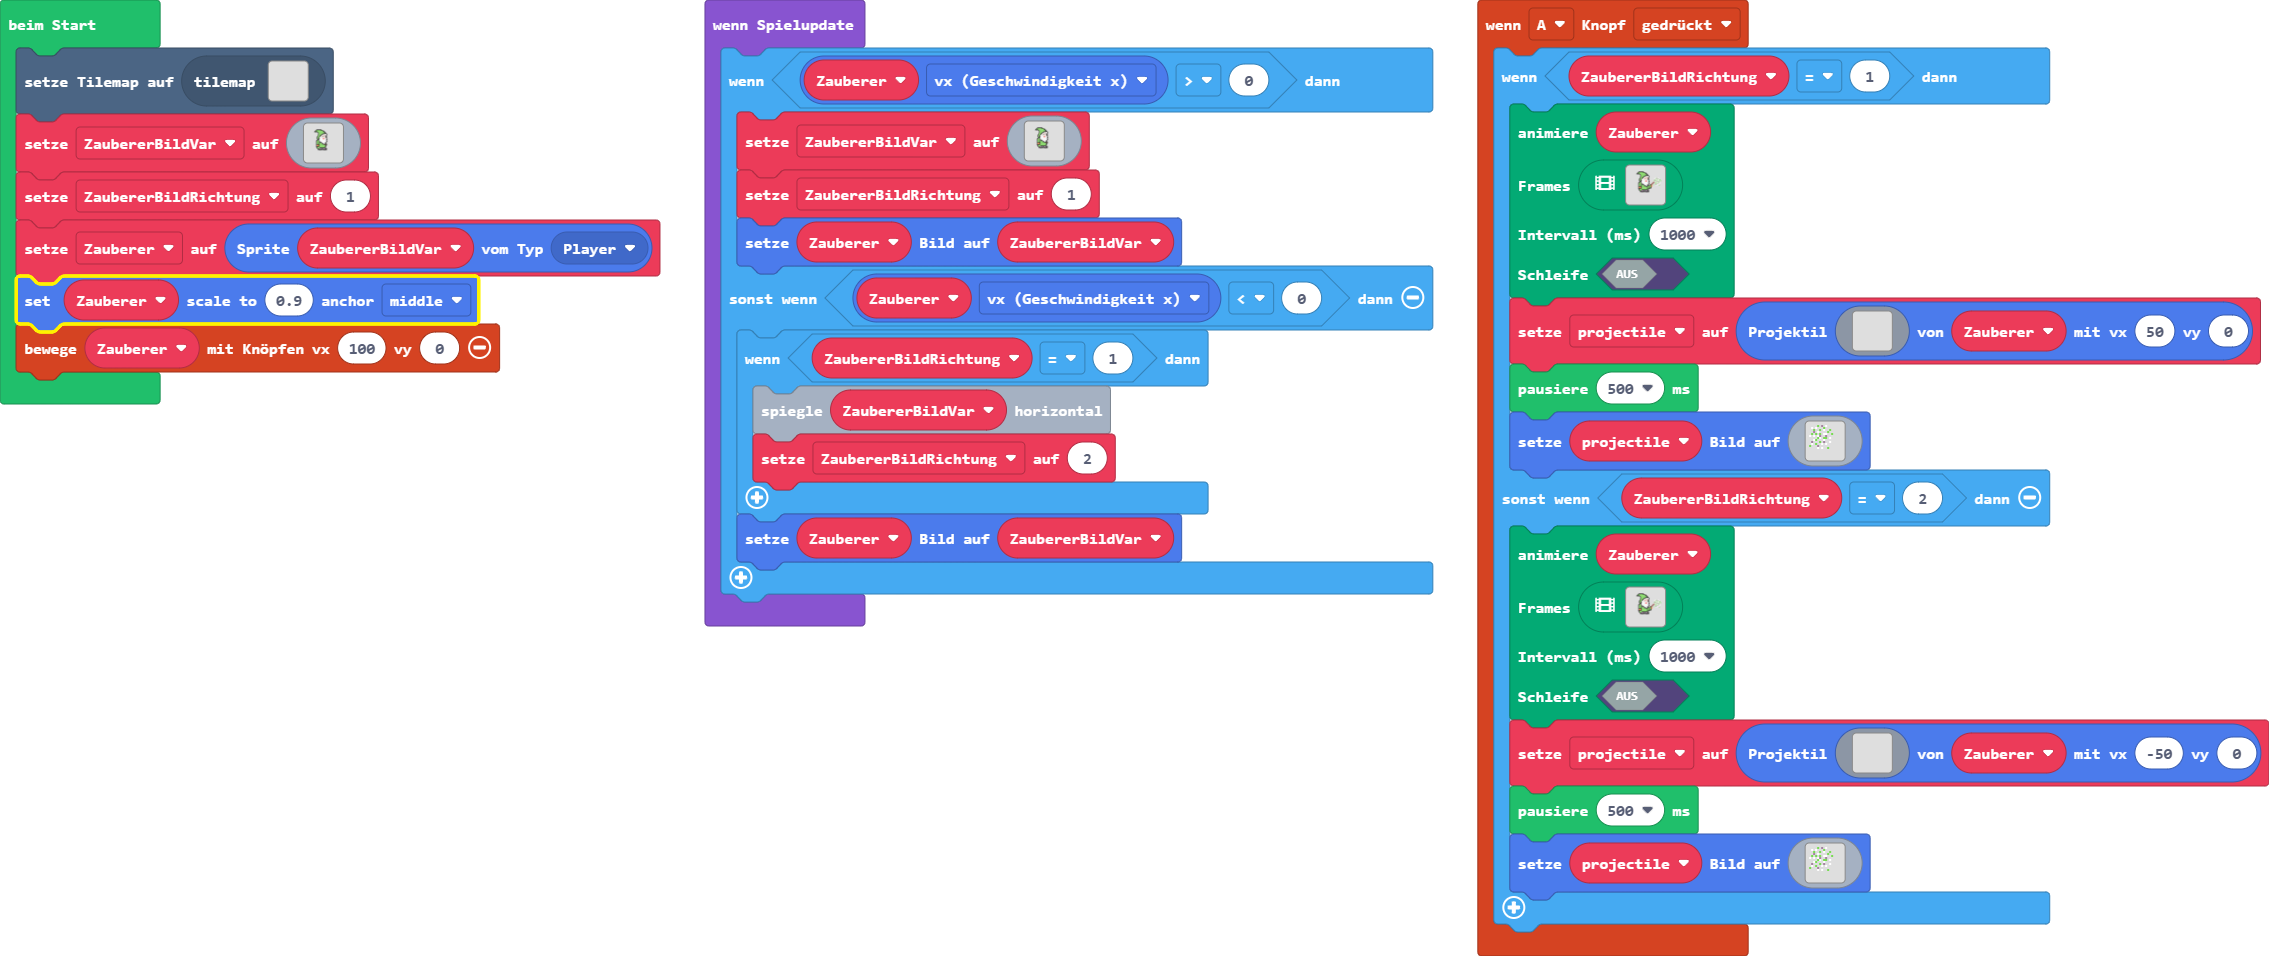
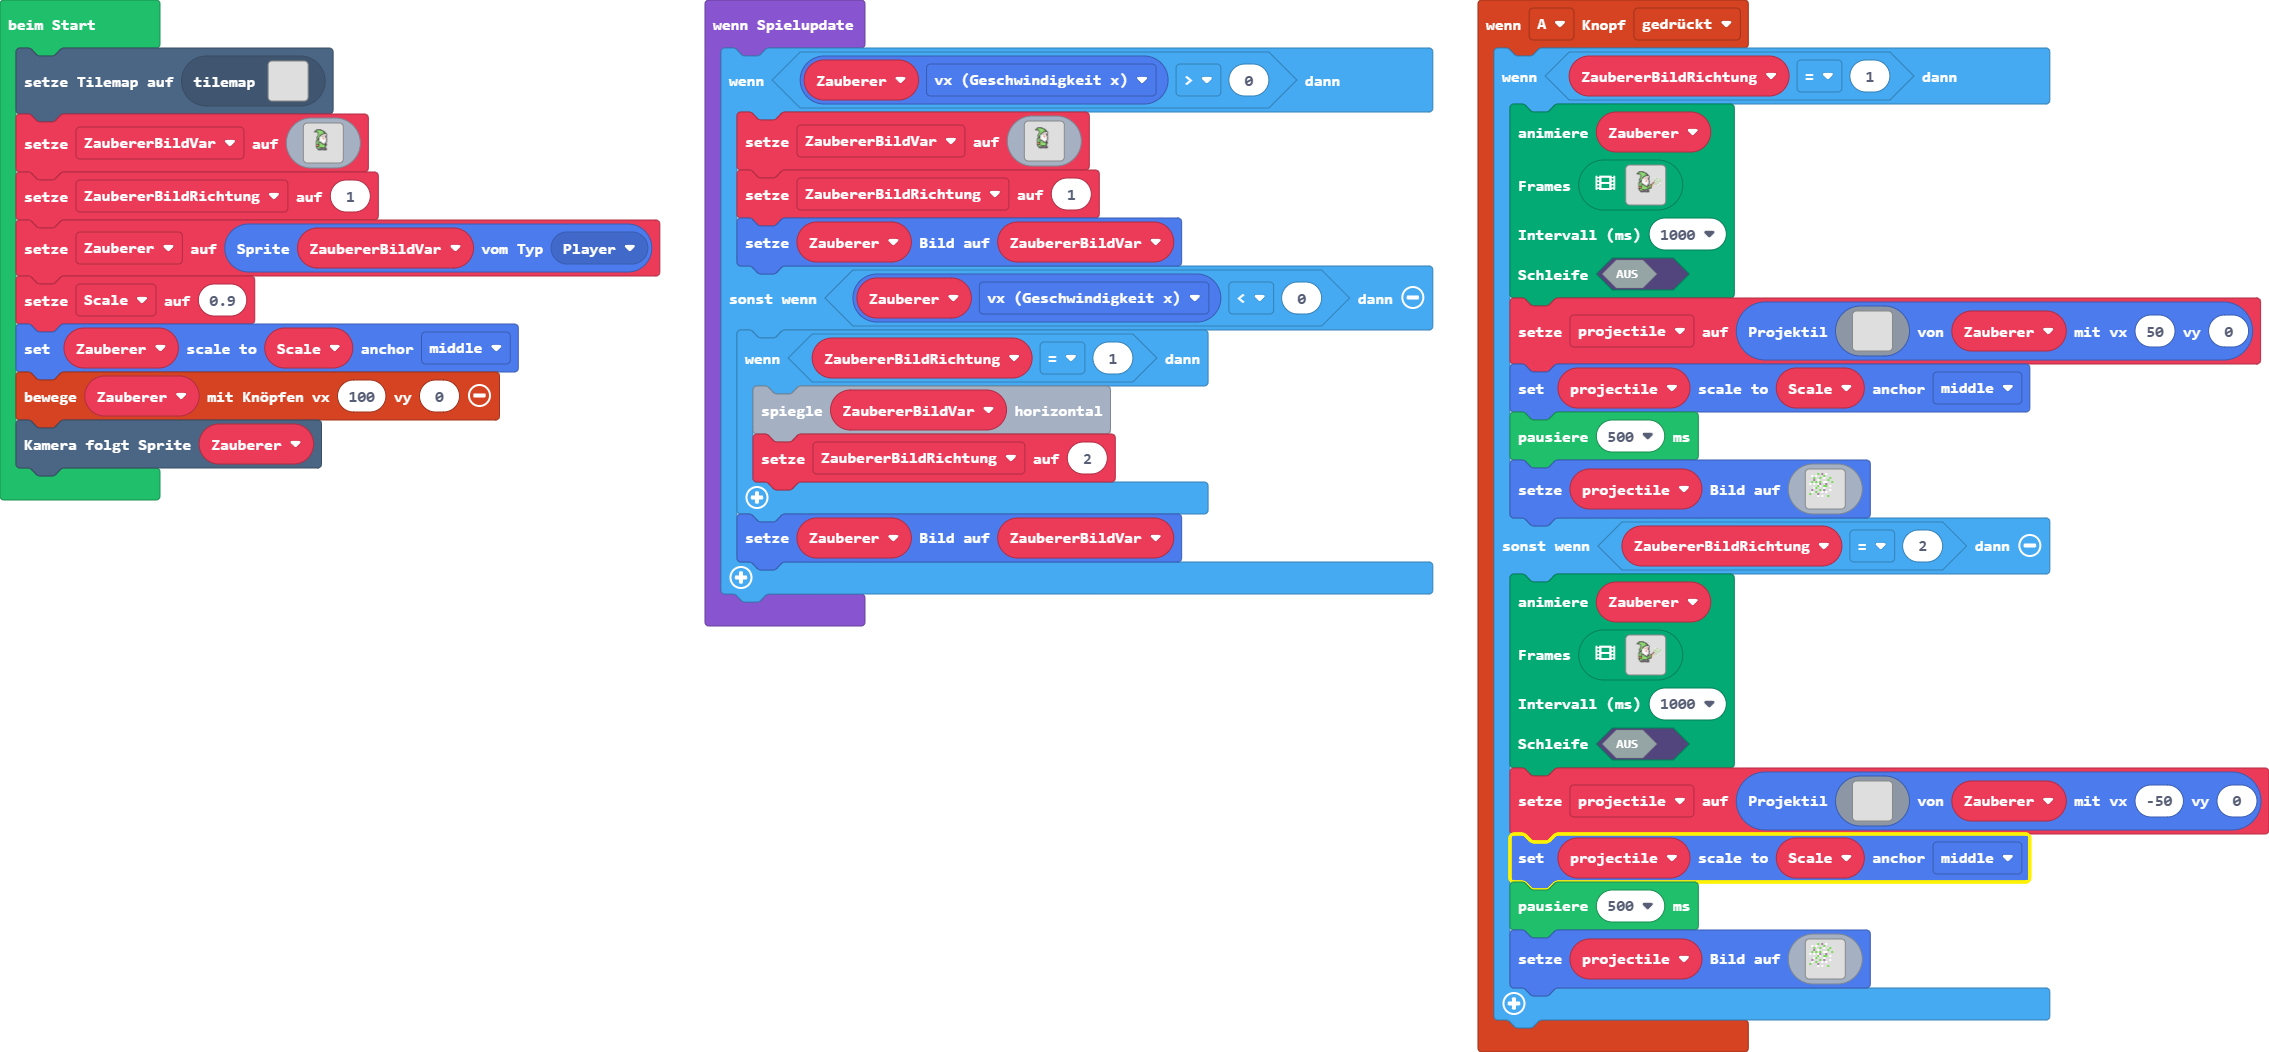
Aktualisiere main.blocks, main.ts

Changed region(s): [[0.0, 0.0, 1.0, 0.9707]]

diff --git a/main.ts b/main.ts
@@ -7,6 +7,7 @@ controller.A.onEvent(ControllerButtonEvent.Pressed, function () {
         false
         )
         projectile = sprites.createProjectileFromSprite(assets.image`LeerBild`, Zauberer, 50, 0)
+        projectile.setScale(Scale, ScaleAnchor.Middle)
         pause(500)
         projectile.setImage(assets.image`ProjectileZauberer`)
     } else if (ZaubererBildRichtung == 2) {
@@ -17,19 +18,23 @@ controller.A.onEvent(ControllerButtonEvent.Pressed, function () {
         false
         )
         projectile = sprites.createProjectileFromSprite(assets.image`LeerBild`, Zauberer, -50, 0)
+        projectile.setScale(Scale, ScaleAnchor.Middle)
         pause(500)
         projectile.setImage(assets.image`ProjectileZauberer`)
     }
 })
 let projectile: Sprite = null
+let Scale = 0
 let Zauberer: Sprite = null
 let ZaubererBildRichtung = 0
 tiles.setCurrentTilemap(tilemap`Level2`)
 let ZaubererBildVar = assets.image`Magier Normal`
 ZaubererBildRichtung = 1
 Zauberer = sprites.create(ZaubererBildVar, SpriteKind.Player)
-Zauberer.setScale(0.9, ScaleAnchor.Middle)
+Scale = 0.9
+Zauberer.setScale(Scale, ScaleAnchor.Middle)
 controller.moveSprite(Zauberer, 100, 0)
+scene.cameraFollowSprite(Zauberer)
 game.onUpdate(function () {
     if (Zauberer.vx > 0) {
         ZaubererBildVar = assets.image`Magier Normal`
